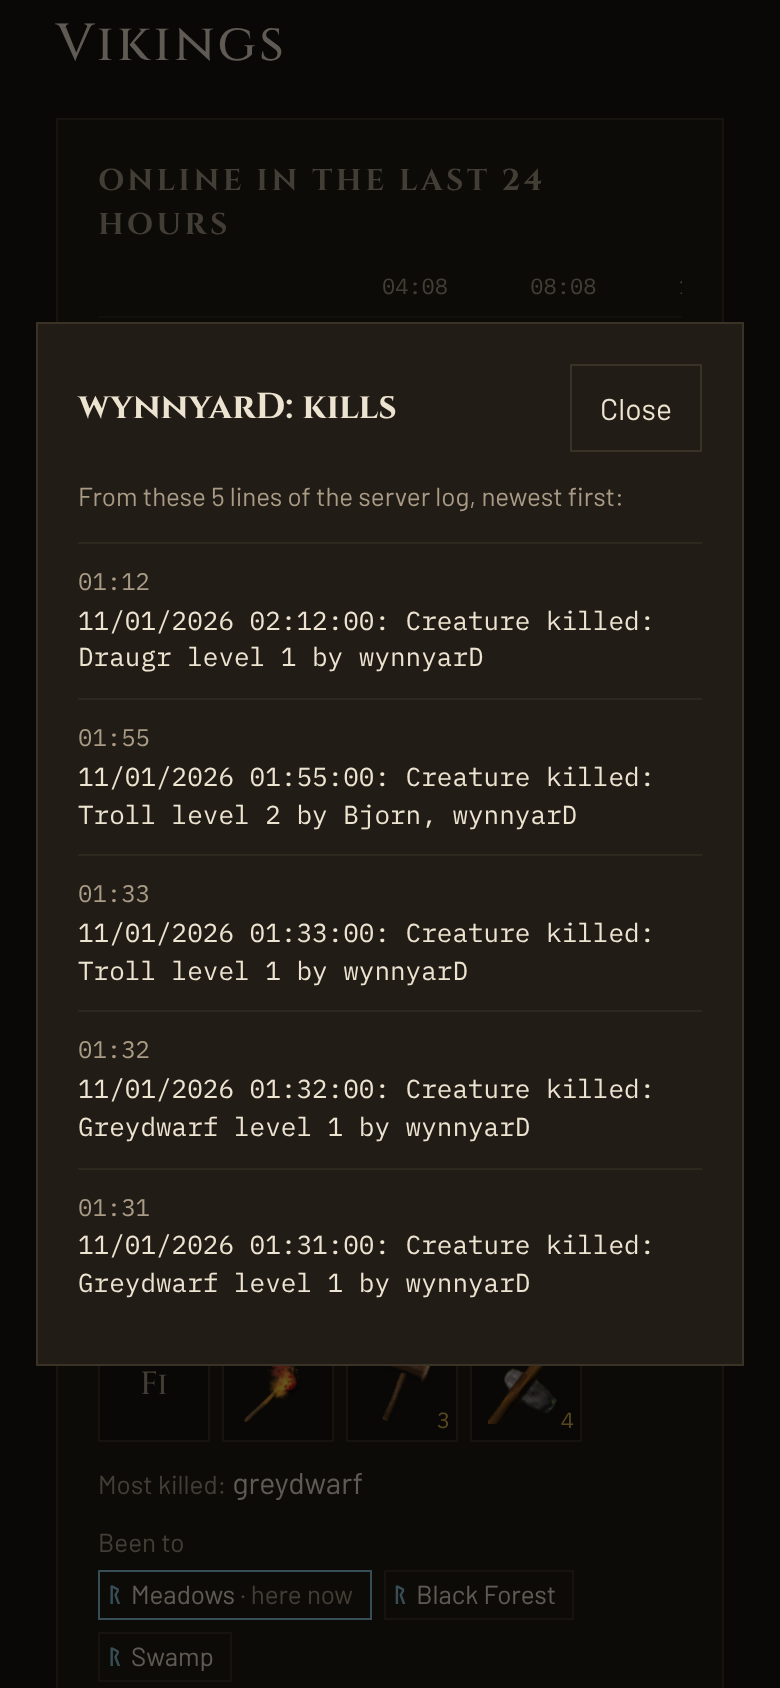
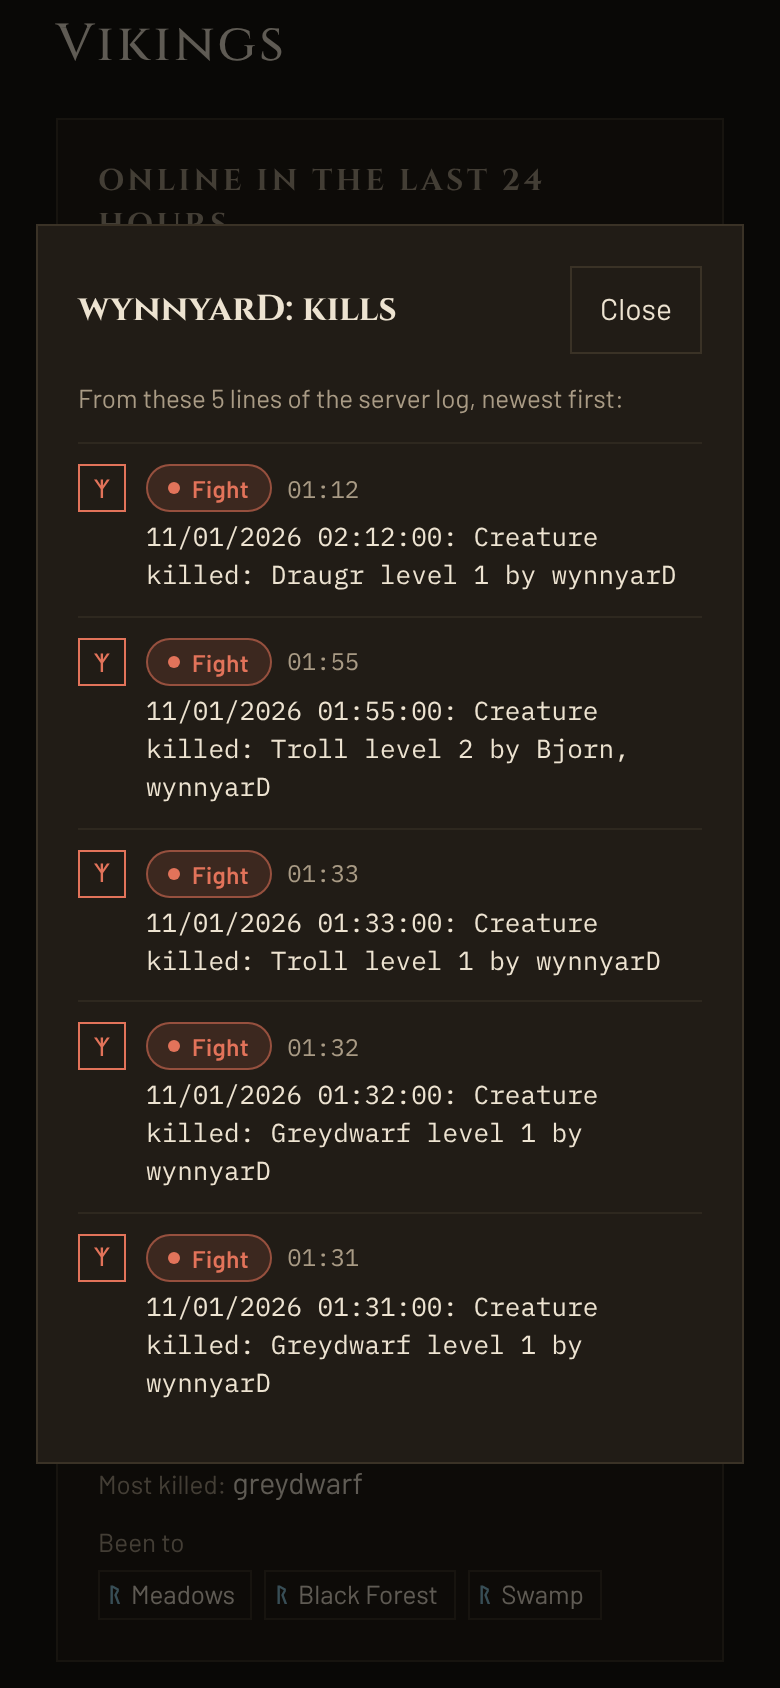
Color each log line in the popup like the Saga tab
Each line gets the Saga rune and a pill label in the same color, for
example a red Fight pill for a kill line.

diff --git a/apps/dashboard/src/lib/server/log-sources.ts b/apps/dashboard/src/lib/server/log-sources.ts
@@ -1,15 +1,26 @@
 import type { LogEvent, PlayerSession } from 'valheim-log';
 
-import type { Snapshot, SourceKind } from '#/lib/models';
+import type { Snapshot, SourceKind, StoryKind } from '#/lib/models';
 import { MAX_SOURCE_LINES } from '#/lib/server/models';
 import { sourceKey } from '#/lib/sources';
 
-/** Keeps [line], written at [timeUtc], behind the number of [kind] for [character], and drops the oldest past the limit. */
-const keepLine = (snapshot: Snapshot, line: string, timeUtc: string, kind: SourceKind, character: string, thing?: string): void => {
+/**
+ * Keeps [line], written at [timeUtc] about [lineKind], behind the number of [kind] for [character], and drops the
+ * oldest past the limit.
+ */
+const keepLine = (
+  snapshot: Snapshot,
+  line: string,
+  timeUtc: string,
+  lineKind: StoryKind,
+  kind: SourceKind,
+  character: string,
+  thing?: string,
+): void => {
   const key = sourceKey(kind, character, thing);
   const source = (snapshot.sources[key] ??= { total: 0, lines: [] });
   source.total += 1;
-  source.lines.push({ timeUtc, line });
+  source.lines.push({ timeUtc, line, kind: lineKind });
   source.lines.splice(0, Math.max(0, source.lines.length - MAX_SOURCE_LINES));
 };
 
@@ -20,24 +31,24 @@ const keepLine = (snapshot: Snapshot, line: string, timeUtc: string, kind: Sourc
 export const keepSourceLines = (snapshot: Snapshot, event: LogEvent, line: string, visitSessions: PlayerSession[]): void => {
   const { timeUtc } = event;
   for (const session of visitSessions) {
-    keepLine(snapshot, line, timeUtc, 'visits', session.character);
+    keepLine(snapshot, line, timeUtc, session.endUtc === timeUtc ? 'left' : 'joined', 'visits', session.character);
   }
   switch (event.type) {
     case 'playerDied':
     case 'deathDetails':
-      keepLine(snapshot, line, timeUtc, 'deaths', event.character);
+      keepLine(snapshot, line, timeUtc, 'died', 'deaths', event.character);
       break;
     case 'creatureKilled':
       for (const attacker of event.attackers) {
-        keepLine(snapshot, line, timeUtc, 'kills', attacker);
-        keepLine(snapshot, line, timeUtc, 'killed', attacker, event.creature);
+        keepLine(snapshot, line, timeUtc, 'fight', 'kills', attacker);
+        keepLine(snapshot, line, timeUtc, 'fight', 'killed', attacker, event.creature);
       }
       break;
     case 'areaEntered':
-      keepLine(snapshot, line, timeUtc, 'area', event.character, event.area);
+      keepLine(snapshot, line, timeUtc, 'travel', 'area', event.character, event.area);
       break;
     case 'gearSeen':
-      keepLine(snapshot, line, timeUtc, 'gear', event.character, event.item);
+      keepLine(snapshot, line, timeUtc, 'items', 'gear', event.character, event.item);
       break;
     default:
       break;

diff --git a/apps/dashboard/src/lib/models.ts b/apps/dashboard/src/lib/models.ts
@@ -241,6 +241,8 @@ export type LogLineRecord = {
   timeUtc: string;
   /** The whole line, for example `10/29/2026 02:43:13: Got character ZDOID from Ragnar : 549297305:1`. */
   line: string;
+  /** What happened in it, which picks its rune, color and label as on the Saga tab. */
+  kind: StoryKind;
 };
 
 /** Log lines behind one number or item. */
@@ -546,23 +548,23 @@ export type StoryItem = {
   text: string;
 };
 
-/** Rune and color for each story kind. */
-export const STORY_STYLES: Record<StoryKind, { rune: string; color: string }> = {
-  joined: { rune: 'ᛖ', color: 'var(--good)' },
-  left: { rune: 'ᛚ', color: 'var(--muted)' },
-  died: { rune: 'ᛞ', color: 'var(--blood)' },
-  raid: { rune: 'ᚦ', color: 'var(--ember)' },
-  night: { rune: 'ᛜ', color: 'var(--frost)' },
-  world: { rune: 'ᛃ', color: 'var(--gold)' },
-  stopped: { rune: 'ᚾ', color: 'var(--muted)' },
-  built: { rune: 'ᛒ', color: 'var(--good)' },
-  wrecked: { rune: 'ᚺ', color: 'var(--ember)' },
-  boss: { rune: 'ᛏ', color: 'var(--gold)' },
-  fight: { rune: 'ᛉ', color: 'var(--blood)' },
-  travel: { rune: 'ᚱ', color: 'var(--frost)' },
-  items: { rune: 'ᚷ', color: 'var(--gold)' },
-  tame: { rune: 'ᚠ', color: 'var(--good)' },
-  chat: { rune: 'ᚨ', color: 'var(--frost)' },
+/** Rune, color and pill label for each story kind. */
+export const STORY_STYLES: Record<StoryKind, { rune: string; color: string; label: string }> = {
+  joined: { rune: 'ᛖ', color: 'var(--good)', label: 'Joined' },
+  left: { rune: 'ᛚ', color: 'var(--muted)', label: 'Left' },
+  died: { rune: 'ᛞ', color: 'var(--blood)', label: 'Death' },
+  raid: { rune: 'ᚦ', color: 'var(--ember)', label: 'Raid' },
+  night: { rune: 'ᛜ', color: 'var(--frost)', label: 'Night' },
+  world: { rune: 'ᛃ', color: 'var(--gold)', label: 'World' },
+  stopped: { rune: 'ᚾ', color: 'var(--muted)', label: 'Stopped' },
+  built: { rune: 'ᛒ', color: 'var(--good)', label: 'Built' },
+  wrecked: { rune: 'ᚺ', color: 'var(--ember)', label: 'Wrecked' },
+  boss: { rune: 'ᛏ', color: 'var(--gold)', label: 'Boss' },
+  fight: { rune: 'ᛉ', color: 'var(--blood)', label: 'Fight' },
+  travel: { rune: 'ᚱ', color: 'var(--frost)', label: 'Travel' },
+  items: { rune: 'ᚷ', color: 'var(--gold)', label: 'Gear and items' },
+  tame: { rune: 'ᚠ', color: 'var(--good)', label: 'Tame' },
+  chat: { rune: 'ᚨ', color: 'var(--frost)', label: 'Chat' },
 };
 
 /** Filters on the Saga tab and the story kinds each one shows. */

diff --git a/apps/dashboard/src/lib/components/LogLines.svelte b/apps/dashboard/src/lib/components/LogLines.svelte
@@ -1,8 +1,9 @@
 <script lang="ts">
   import type { Snippet } from 'svelte';
 
+  import Pill from '#/lib/components/Pill';
   import { live } from '#/lib/live.svelte';
-  import type { SourceLines } from '#/lib/models';
+  import { type SourceLines, STORY_STYLES } from '#/lib/models';
   import { viewerTimeZone, whenLabel } from '#/lib/status';
 
   /** What the lines are about, the lines, and what to show as the button that opens them. */
@@ -41,8 +42,13 @@
       </p>
       <ol>
         {#each newestFirst as record, i (i)}
+          {@const style = STORY_STYLES[record.kind]}
           <li>
-            {#if live.nowMs !== null}<span class="mono muted">{whenLabel(record.timeUtc, viewerTimeZone(), live.nowMs)}</span>{/if}
+            <span class="rune" aria-hidden="true" style:color={style.color} style:border-color={style.color}>{style.rune}</span>
+            <div class="what">
+              <Pill pill={{ text: style.label, tone: 'quiet' }} --tone={style.color} />
+              {#if live.nowMs !== null}<span class="mono muted">{whenLabel(record.timeUtc, viewerTimeZone(), live.nowMs)}</span>{/if}
+            </div>
             <code>{record.line}</code>
           </li>
         {/each}
@@ -120,13 +126,33 @@
     list-style: none;
   }
 
-  /* One log line under its time */
+  /* One log line: rune on the left, label and time above the line, as on the Saga tab */
   li {
-    display: flex;
-    flex-direction: column;
-    gap: 2px;
+    display: grid;
+    grid-template-columns: 22px minmax(0, 1fr);
+    gap: 4px 12px;
     padding: 10px 0;
     border-top: 1px solid var(--line-soft);
+  }
+
+  /* Rune box in the color of what happened */
+  .rune {
+    grid-row: span 2;
+    display: grid;
+    place-items: center;
+    width: 22px;
+    height: 22px;
+    border: 1px solid;
+    font-family: var(--font-rune);
+    font-size: 13px;
+  }
+
+  /* Label pill and time side by side */
+  .what {
+    display: flex;
+    flex-wrap: wrap;
+    align-items: center;
+    gap: 8px;
   }
 
   /* Log line as written, wrapped on narrow screens */

diff --git a/apps/dashboard/src/lib/sources.test.ts b/apps/dashboard/src/lib/sources.test.ts
@@ -20,9 +20,9 @@ describe('playerSource', () => {
       sessionWith({ character: 'Ragnhild', steamId: 'Steam_1', startUtc: '2026-10-29T11:00:00.000Z' }),
     ],
     sources: {
-      'deaths:Ragnhild': { total: 1, lines: [{ timeUtc: '2026-10-29T11:30:00.000Z', line: 'Ragnhild death' }] },
-      'deaths:Ragnar': { total: 3, lines: [{ timeUtc: '2026-10-29T09:30:00.000Z', line: 'Ragnar death' }] },
-      'gear:Ragnar:Club': { total: 1, lines: [{ timeUtc: '2026-10-29T09:10:00.000Z', line: 'Ragnar club' }] },
+      'deaths:Ragnhild': { total: 1, lines: [{ timeUtc: '2026-10-29T11:30:00.000Z', line: 'Ragnhild death', kind: 'died' }] },
+      'deaths:Ragnar': { total: 3, lines: [{ timeUtc: '2026-10-29T09:30:00.000Z', line: 'Ragnar death', kind: 'died' }] },
+      'gear:Ragnar:Club': { total: 1, lines: [{ timeUtc: '2026-10-29T09:10:00.000Z', line: 'Ragnar club', kind: 'items' }] },
     },
   });
   const [player] = playersOf(snapshot, TEST_NOON_MS);
@@ -35,8 +35,8 @@ describe('playerSource', () => {
     expect(source).toEqual({
       total: 4,
       lines: [
-        { timeUtc: '2026-10-29T09:30:00.000Z', line: 'Ragnar death' },
-        { timeUtc: '2026-10-29T11:30:00.000Z', line: 'Ragnhild death' },
+        { timeUtc: '2026-10-29T09:30:00.000Z', line: 'Ragnar death', kind: 'died' },
+        { timeUtc: '2026-10-29T11:30:00.000Z', line: 'Ragnhild death', kind: 'died' },
       ],
     });
   });

diff --git a/apps/dashboard/src/lib/components/Pill.svelte b/apps/dashboard/src/lib/components/Pill.svelte
@@ -8,17 +8,16 @@
 <span class="pill {pill.tone}">{pill.text}</span>
 
 <style>
-  /* Rounded label with a tinted fill, so a status reads at a glance and not as plain text */
+  /* Rounded label with a tinted fill, so a status reads at a glance and not as plain text. A parent can set --tone. */
   .pill {
-    --tone: var(--muted);
     display: inline-flex;
     align-items: center;
     gap: 6px;
     padding: 2px 10px;
-    border: 1px solid color-mix(in srgb, var(--tone) 55%, transparent);
+    border: 1px solid color-mix(in srgb, var(--tone, var(--muted)) 55%, transparent);
     border-radius: 999px;
-    background: color-mix(in srgb, var(--tone) 14%, transparent);
-    color: var(--tone);
+    background: color-mix(in srgb, var(--tone, var(--muted)) 14%, transparent);
+    color: var(--tone, var(--muted));
     font-family: var(--font-body);
     font-size: 12px;
     font-weight: 600;

diff --git a/apps/dashboard/src/lib/server/log-sources.test.ts b/apps/dashboard/src/lib/server/log-sources.test.ts
@@ -43,7 +43,11 @@ describe('keepSourceLines', () => {
       '10/29/2026 02:54:00: Got character ZDOID from Ragnar : 0:0',
       '10/29/2026 02:54:01: Player died: Ragnar in Swamp while fighting Draugr',
     ]);
-    expect(state.snapshot.sources['visits:Ragnar']!.lines[0]!.timeUtc).toBe('2026-10-29T09:43:13.000Z');
+    expect(state.snapshot.sources['visits:Ragnar']!.lines.map(({ timeUtc, kind }) => [timeUtc, kind])).toEqual([
+      ['2026-10-29T09:43:13.000Z', 'joined'],
+      ['2026-10-29T09:59:00.000Z', 'left'],
+    ]);
+    expect(state.snapshot.sources['gear:Ragnar:SpearFlint']!.lines[0]!.kind).toBe('items');
   });
 
   it('keeps only the latest 50 lines but counts them all', () => {
